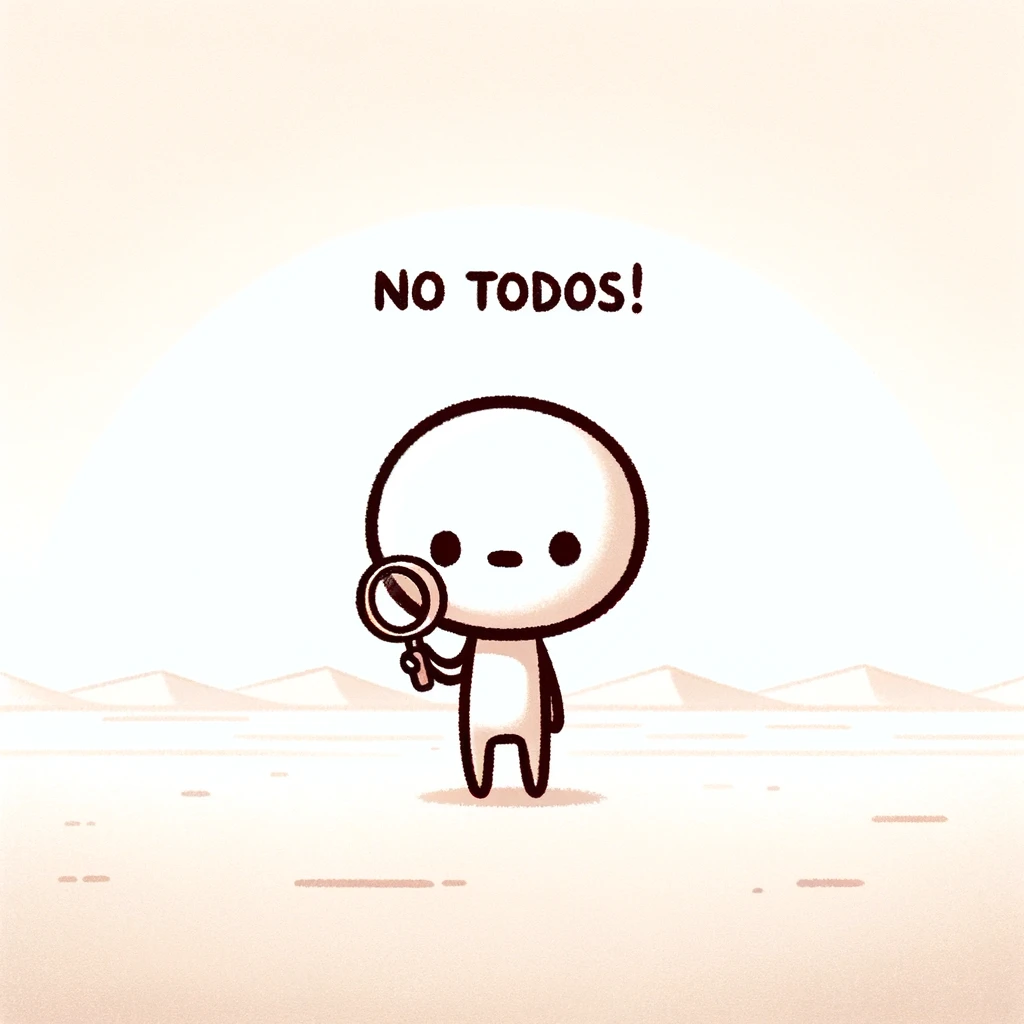
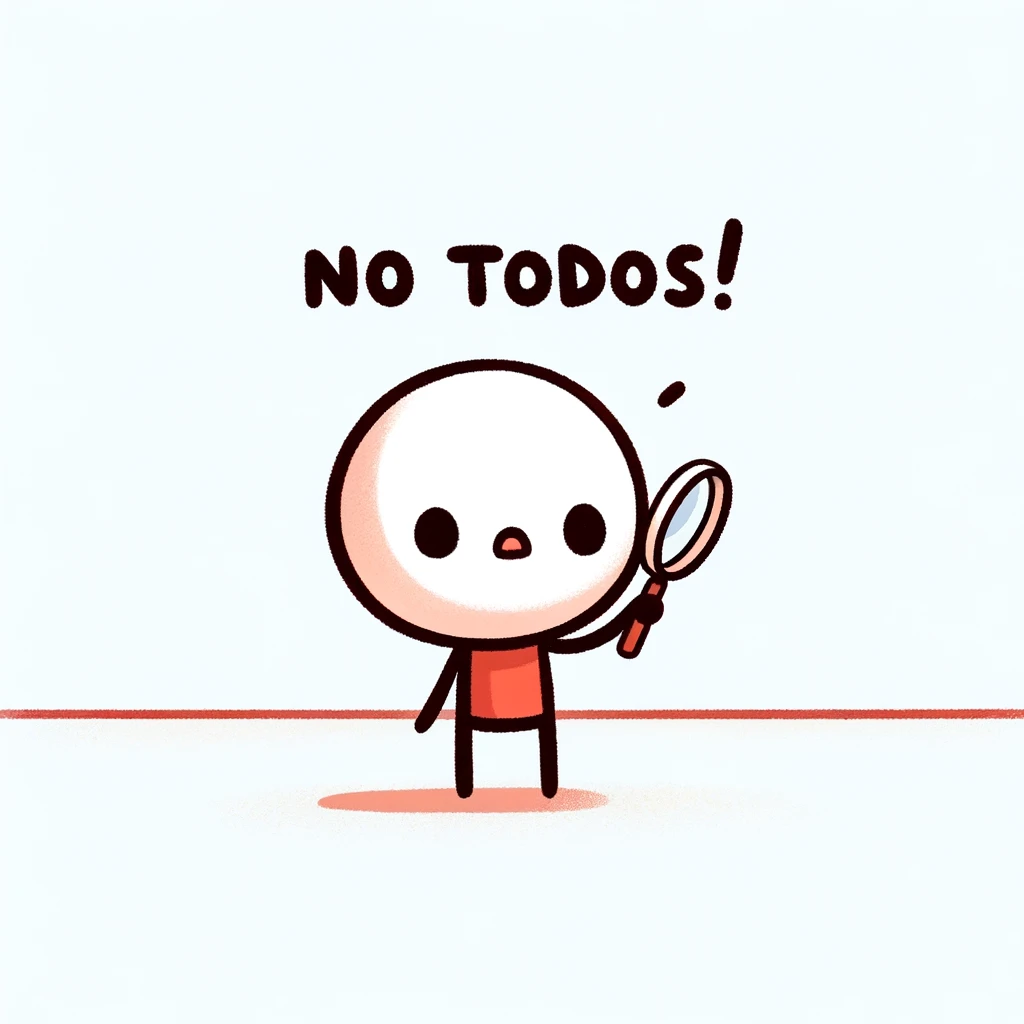
update empty state images

diff --git a/src/components/meeting/meeting-list.tsx b/src/components/meeting/meeting-list.tsx
@@ -2,17 +2,21 @@
 
 import { useMeetings } from "~/hooks";
 import { MeetingItem } from ".";
+import Image from "next/image";
 
 export const MeetingList = ({ dialogueId }: { dialogueId: string }) => {
   const meetings = useMeetings({ dialogueId });
 
   if (meetings.data.length === 0) {
     return (
-      <div>
-        <div className="text-sm">No meetings found.</div>
-        <div className="text-xs text-muted-foreground">
-          Create a meeting to get started!
-        </div>
+      <div className="flex items-center justify-center p-6">
+        <Image
+          src="/img/no-meetings.png"
+          width={275}
+          height={275}
+          alt="No meetings"
+          className="antialiased opacity-30 saturate-0"
+        />
       </div>
     );
   }
